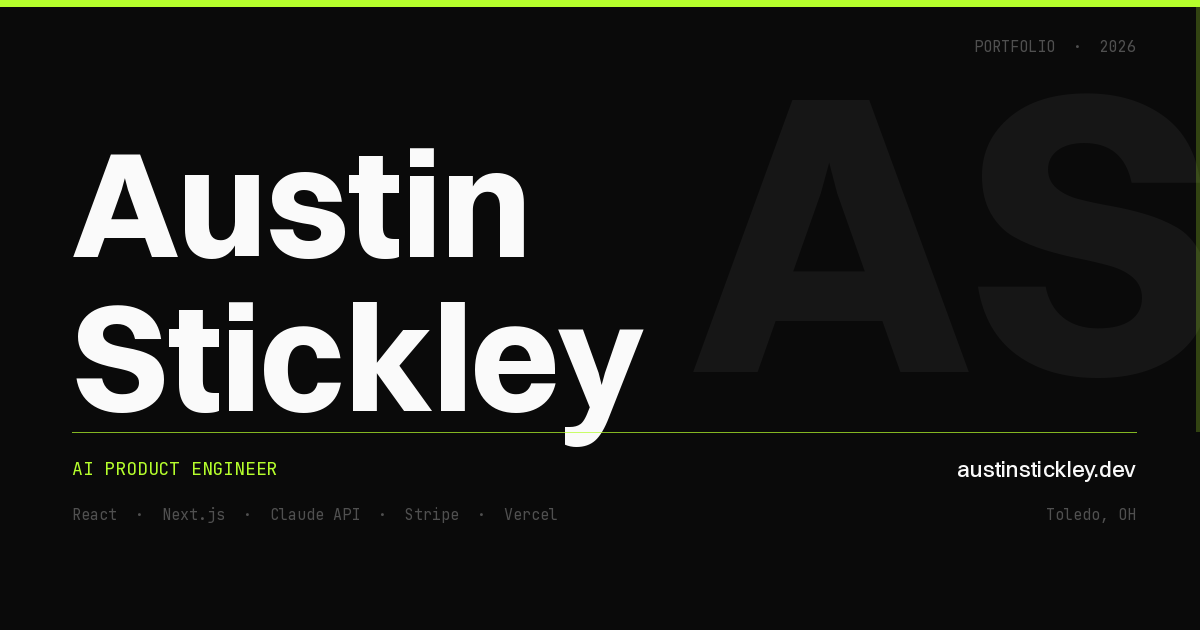
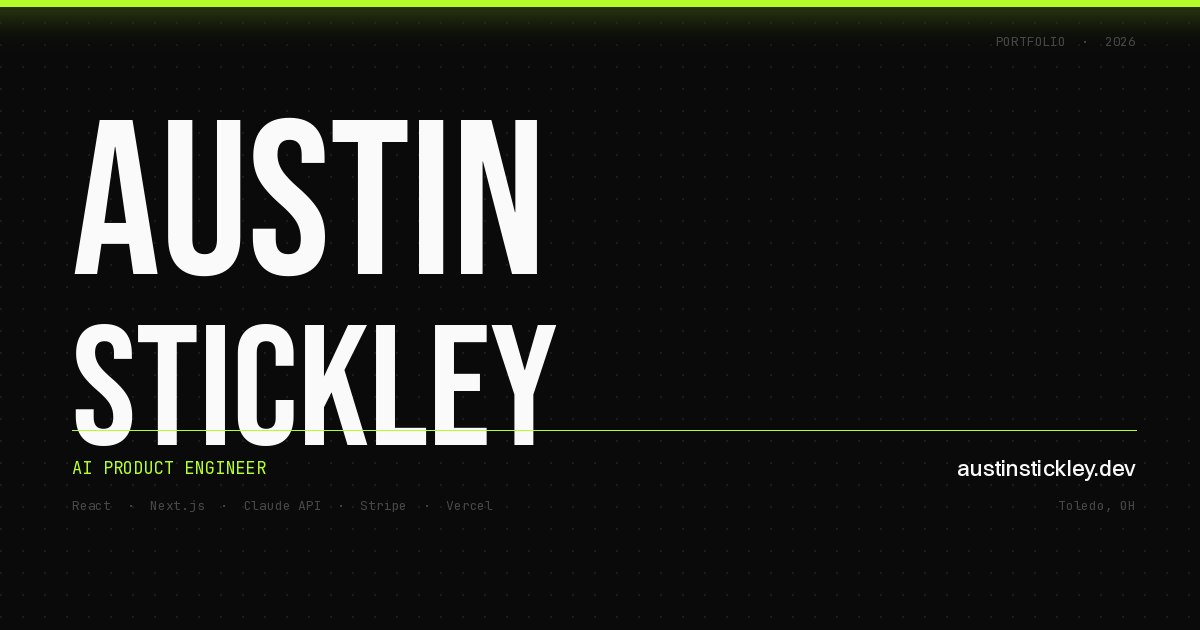
New OG card: Bebas Neue + dot grid + lime glow + animated GIF
Static PNG (og-image.png):
- Bebas Neue display font — authoritative condensed name treatment
- Dot grid watermark background (22px spacing, near-invisible texture)
- Lime atmospheric glow at top (blurred layer under sharp bar)
- AUSTIN / STICKLEY stacked, size-differentiated
- Lime separator hairline, role + domain + stack + location

Animated GIF (og-image.gif):
- Same design, starts fully assembled (good first frame for Twitter/LinkedIn)
- Subtle lime glow pulse animation loops continuously
- Separator hairline alpha pulses in sync with glow
- Discord / Slack / iMessage / Telegram animate the GIF
- Twitter/X gets twitter:image pointing to static PNG instead

Meta:
- og:image → og-image.gif (platforms that animate will)
- twitter:image → og-image.png (Twitter gets clean static)

diff --git a/index.html b/index.html
@@ -33,9 +33,10 @@
     <meta property="og:title" content="Austin Stickley — AI Product Engineer" />
     <meta property="og:description" content="Full-stack AI product engineer shipping React, Next.js, and Claude API products from design to deployment. Solo. Every project is live." />
     <meta property="og:url" content="https://austinstickley.dev/" />
-    <meta property="og:image" content="https://austinstickley.dev/og-image.png" />
+    <meta property="og:image" content="https://austinstickley.dev/og-image.gif" />
     <meta property="og:image:width" content="1200" />
     <meta property="og:image:height" content="630" />
+    <meta property="og:image:type" content="image/gif" />
     <meta property="og:image:alt" content="Austin Stickley — AI Product Engineer, Toledo OH" />
     <meta property="og:locale" content="en_US" />
 
